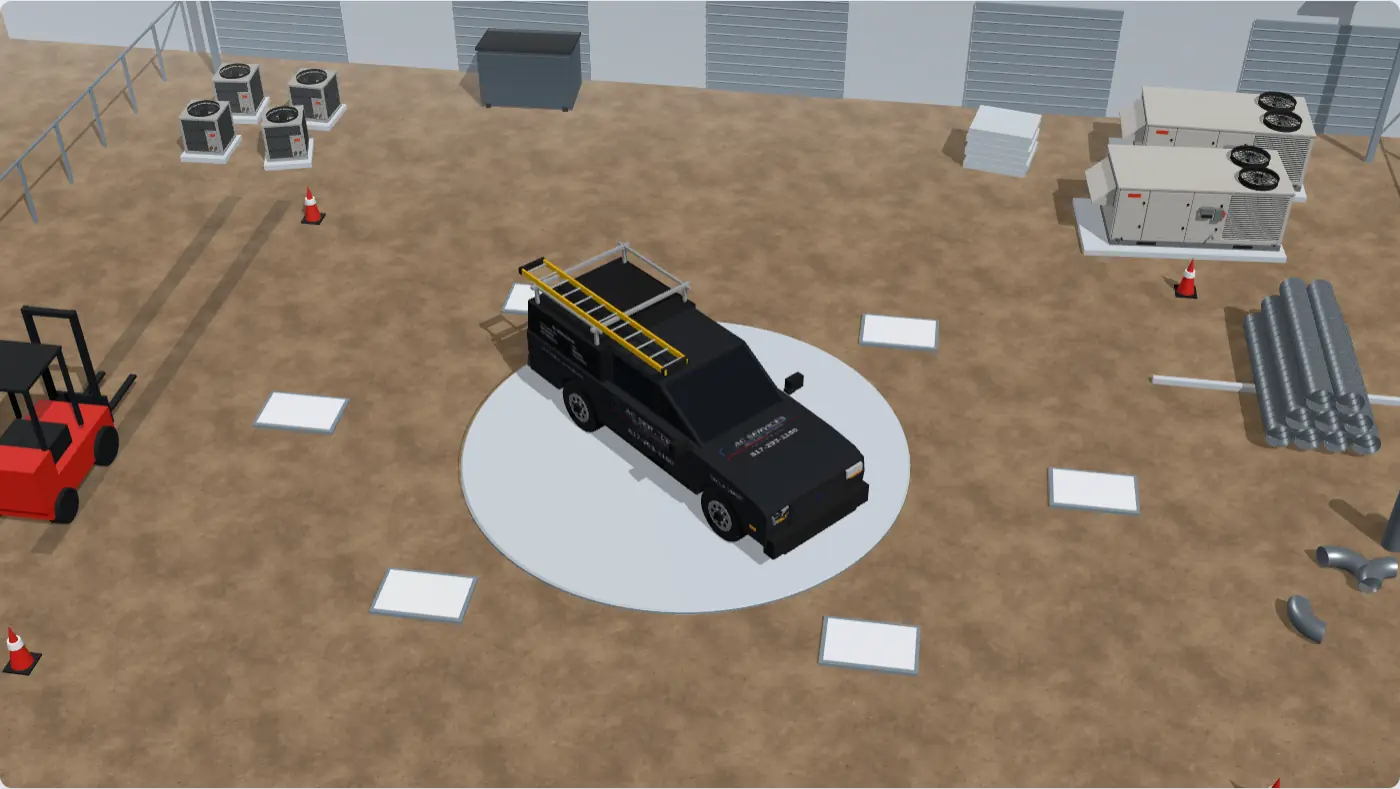
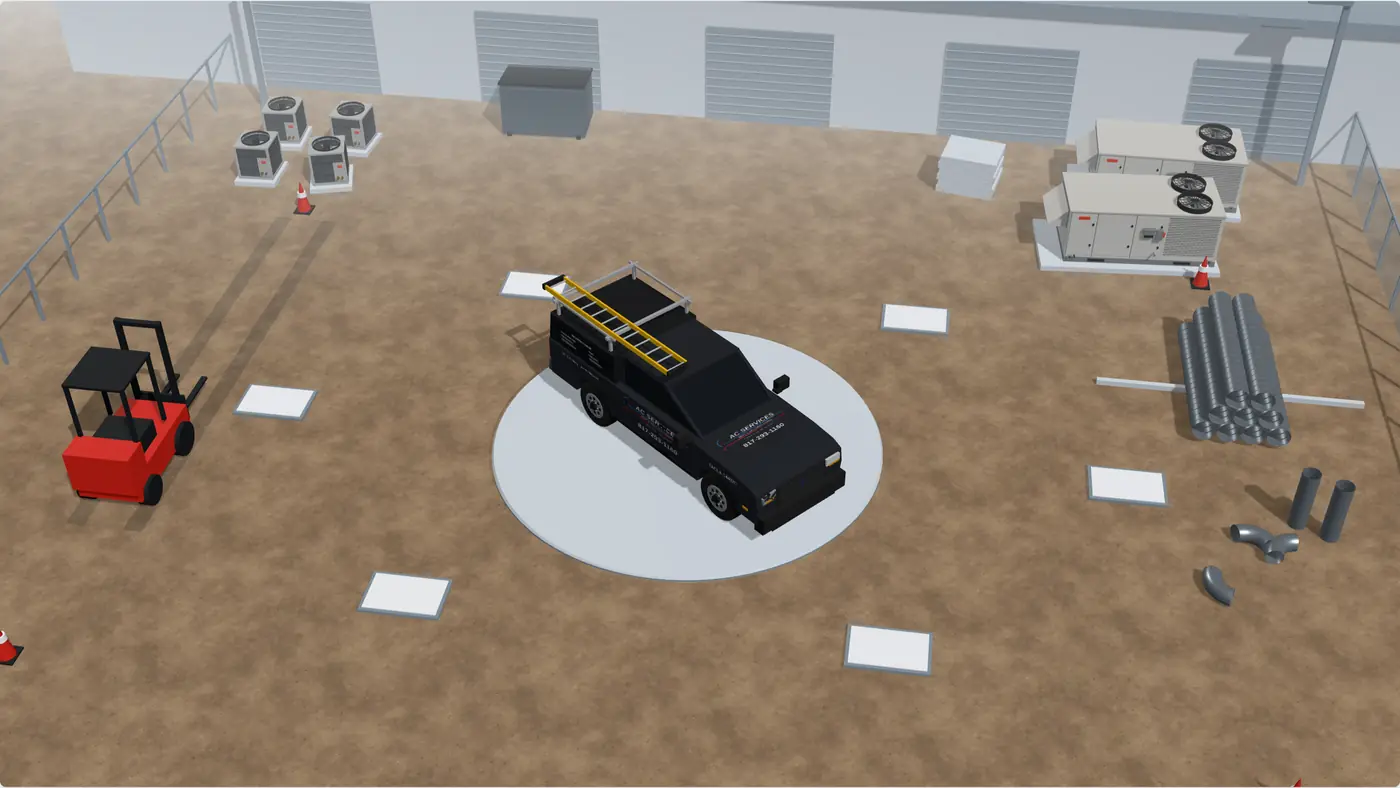
S1: the yard's still is re-captured on the new pad ring, and its fallback plates are fitted to the pads (#105)

diff --git a/apps/s1-marketing/src/styles.ts b/apps/s1-marketing/src/styles.ts
@@ -42,14 +42,16 @@ export const S1_CSS = `
    pinned beside its pad on the side away from the turntable, so no plate crosses the truck's swept
    volume (r 9.5 m, 6.3 m tall) at any heading. The front page sits on the page grid, so the logo, the heading and the
    panel share one left edge and the panel runs the page width. Live, each plate takes --x/--y from the scene's projection; until then, and where
-   WebGL is unavailable, the plates sit on a CSS ellipse over the still (public/scene-still.webp).
+   WebGL is unavailable, the plates sit on a CSS ellipse over the still (public/scene-still.webp),
+   fitted to the pads as the live camera projects them (within 2.4% of the stage). Re-capture the
+   still and re-fit the ellipse whenever the pads or the camera move.
    Under 45rem the plates leave the floor and stack under it. ---- */
 .s1-scene{position:relative;container-type:inline-size;margin-top:var(--space-4);border-radius:var(--radius-card);overflow:hidden;box-shadow:var(--elevation-card)}
 .s1-scene__stage{aspect-ratio:16/9;background:url(/scene-still.webp) center/cover no-repeat}
 .s1-scene[data-live] .s1-scene__stage{background:none}
 .s1-scene__stage canvas{display:block;width:100%;height:100%}
 .s1-scene__plates{position:absolute;inset:0;margin:0;padding:0;list-style:none;pointer-events:none}
-.s1-scene__plate{position:absolute;left:calc(50% + sin(var(--slot)) * 36cqi);top:calc(50% - cos(var(--slot)) * 20cqi);width:max-content;--out-x:clamp(-1, 2 * sin(var(--slot)), 1);--out-y:clamp(-1, -2 * cos(var(--slot)), 1);transform:translate(calc(-50% + var(--out-x) * (50% + var(--space-3))),calc(-50% + var(--out-y) * (50% + var(--space-3))));pointer-events:auto}
+.s1-scene__plate{position:absolute;left:calc(49.4% + sin(var(--slot)) * 30.6% + cos(var(--slot)) * 3.2%);top:calc(57.3% + sin(var(--slot)) * 5.4% - cos(var(--slot)) * 23.5%);width:max-content;--out-x:clamp(-1, 2 * sin(var(--slot)), 1);--out-y:clamp(-1, -2 * cos(var(--slot)), 1);transform:translate(calc(-50% + var(--out-x) * (50% + var(--space-3))),calc(-50% + var(--out-y) * (50% + var(--space-3))));pointer-events:auto}
 .s1-scene[data-live] .s1-scene__plate{left:var(--x);top:var(--y)}
 .s1-portal{display:flex;flex-direction:column;justify-content:center;min-height:var(--control-height);padding:var(--space-1) var(--space-3);white-space:nowrap;line-height:1.25;background:var(--color-surface);border:1px solid var(--color-border);border-radius:var(--radius-card);box-shadow:var(--elevation-card);color:var(--color-text);text-align:center;text-decoration:none;transition:border-color var(--motion-base) var(--ease),box-shadow var(--motion-base) var(--ease)}
 .s1-portal strong{font-family:var(--font-display);font-size:var(--text-sm);font-weight:700;letter-spacing:var(--track-tight)}
